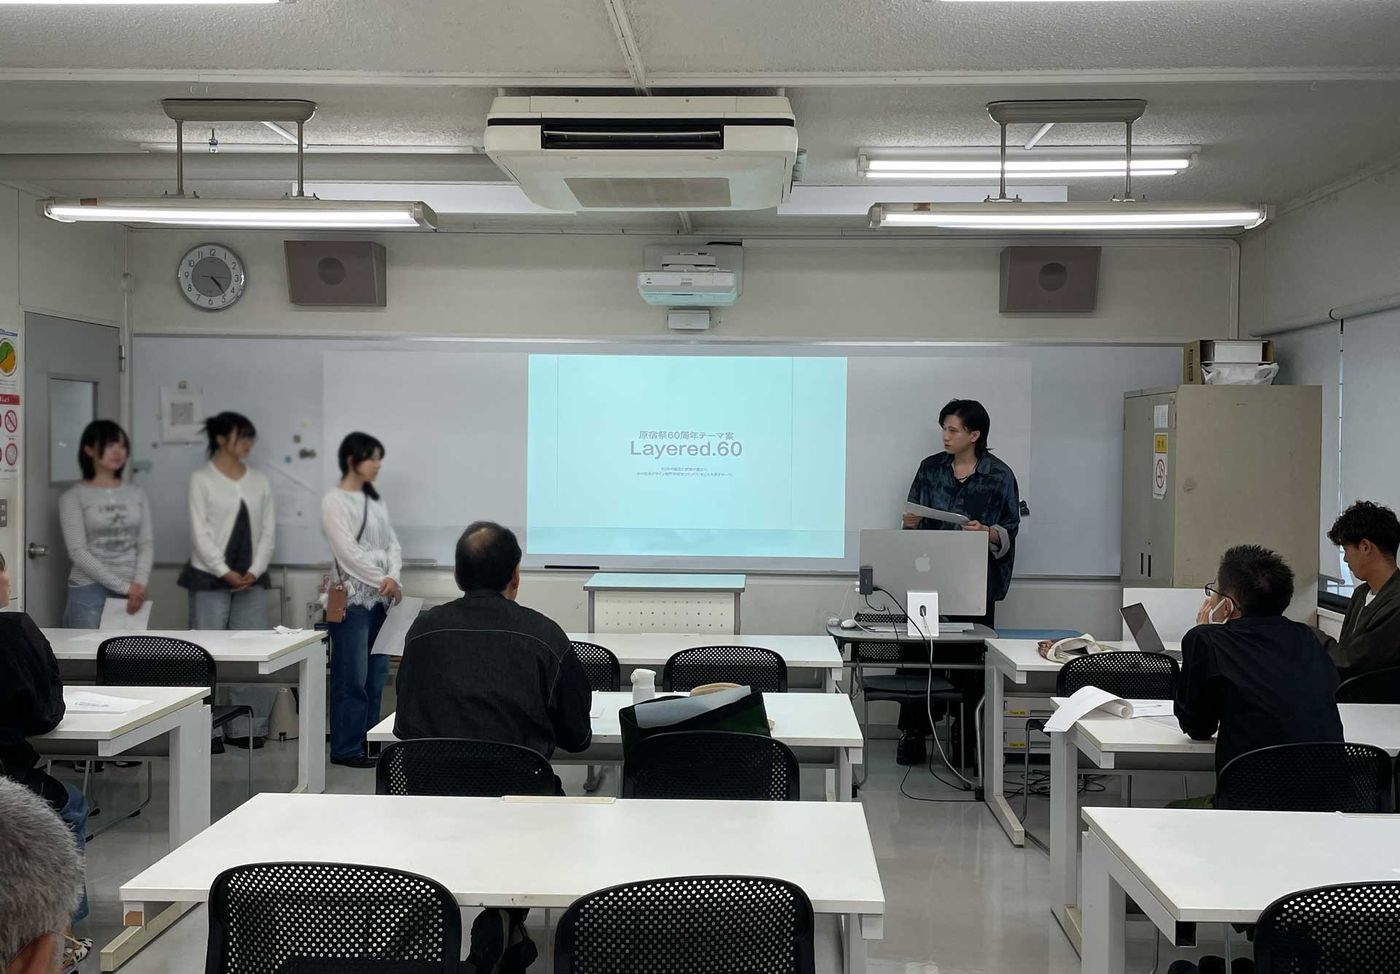
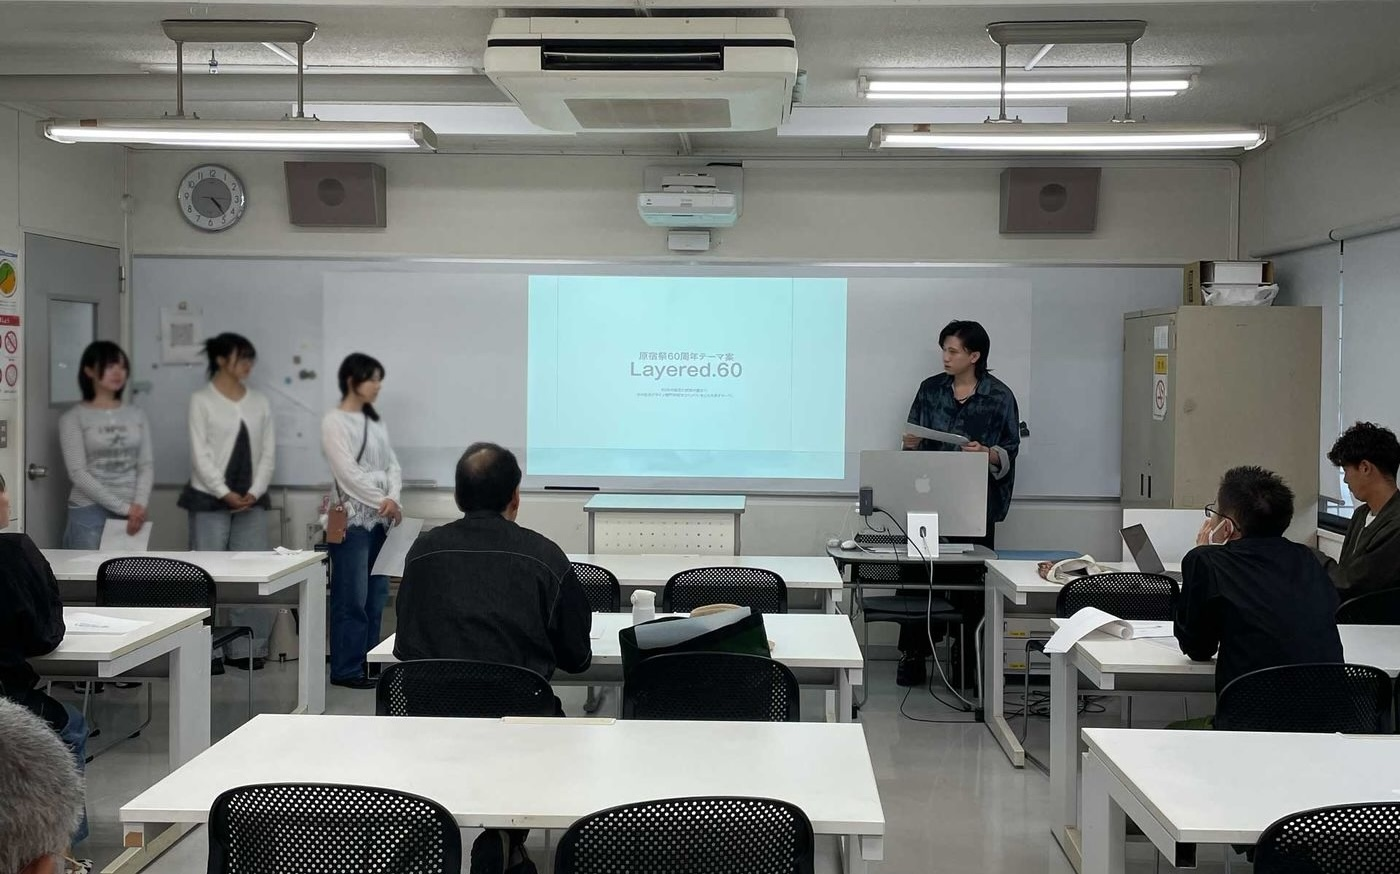
サムネ位置調整、about写真差し替え

diff --git a/index.html b/index.html
@@ -283,7 +283,7 @@
                                 <div class="p-about-hero__strength-media">
                                     <img
                                         class="p-about-hero__strength-image"
-                                        src="images/leader.jpg"
+                                        src="images/about-01.jpg"
                                         alt="音楽同好会の写真"
                                         loading="lazy"
                                         decoding="async"
@@ -357,7 +357,6 @@
                                         <div class="c-card__visual">
                                             <img
                                                 class="c-card__image"
-                                                style="object-position: center 22%"
                                                 src="images/work-graphic_01.jpg"
                                                 alt="Adobe Creative Cloud 広告ポスター 人物から色とりどりの欠片が舞い上がる合成ビジュアル"
                                                 loading="lazy"
@@ -381,7 +380,6 @@
                                         <div class="c-card__visual">
                                             <img
                                                 class="c-card__image"
-                                                style="object-position: center 40%"
                                                 src="images/work-graphic_02.jpg"
                                                 alt="REAL GOLD 広告ポスター 金の稲妻が缶を貫く合成ビジュアル"
                                                 loading="lazy"
@@ -406,7 +404,6 @@
                                             <span class="c-card__badge">Client Work</span>
                                             <img
                                                 class="c-card__image"
-                                                style="object-position: center 18%"
                                                 src="images/work-graphic_03.jpg"
                                                 alt="CLUB BELL 店舗看板 人物撮影と装飾合成によるビジュアル"
                                                 loading="lazy"
@@ -432,7 +429,6 @@
                                             <span class="c-card__badge">Client Work</span>
                                             <img
                                                 class="c-card__image"
-                                                style="object-position: center 20%"
                                                 src="images/work-graphic_04.jpg"
                                                 alt="BB 13周年フライヤー ロゴを主役にしたデザイン"
                                                 loading="lazy"
@@ -465,7 +461,6 @@
                                             <span class="c-card__badge">Client Work</span>
                                             <img
                                                 class="c-card__image"
-                                                style="object-position: center 15%"
                                                 src="images/work-photo_01.jpg"
                                                 alt="宣材撮影のポートレート"
                                                 loading="lazy"
@@ -489,7 +484,6 @@
                                             <span class="c-card__badge">Client Work</span>
                                             <img
                                                 class="c-card__image"
-                                                style="object-position: center 20%"
                                                 src="images/work-photo_02.jpg"
                                                 alt="成人式前撮りの一枚"
                                                 loading="lazy"
@@ -513,7 +507,6 @@
                                             <span class="c-card__badge">Client Work</span>
                                             <img
                                                 class="c-card__image"
-                                                style="object-position: center 30%"
                                                 src="images/work-photo_03.jpg"
                                                 alt="厨房で調理するオーナーのポートレート"
                                                 loading="lazy"

diff --git a/css/style.css b/css/style.css
@@ -245,6 +245,51 @@ address {
     transition: transform 0.6s var(--ease-out);
 }
 
+/* サムネ位置調整 */
+[data-work="adobe"] .c-card__image {
+    object-position: center 27%;
+}
+
+[data-work="realgold"] .c-card__image {
+    object-position: center 54%;
+}
+
+[data-work="clubbell"] .c-card__image {
+    object-position: center 10%;
+}
+
+[data-work="bbflyer"] .c-card__image {
+    object-position: center 80%;
+}
+
+[data-work="seijinshiki"] .c-card__image {
+    object-position: center 15%;
+}
+
+[data-work="kagawa"] .c-card__image {
+    object-position: center 50%;
+}
+
+[data-work="mentai"] .c-card__image {
+    object-position: center 40%;
+}
+
+[data-work="kitchen"] .c-card__image {
+    object-position: center 10%;
+}
+
+[data-work="portrait"] .c-card__image {
+    object-position: center 30%;
+}
+
+[data-work="banner"] .c-card__image {
+    object-position: center 10%;
+}
+
+[data-work="ryori"] .c-card__image {
+    object-position: center 10%;
+}
+
 .c-card:hover .c-card__image {
     transform: scale(1.05);
 }
